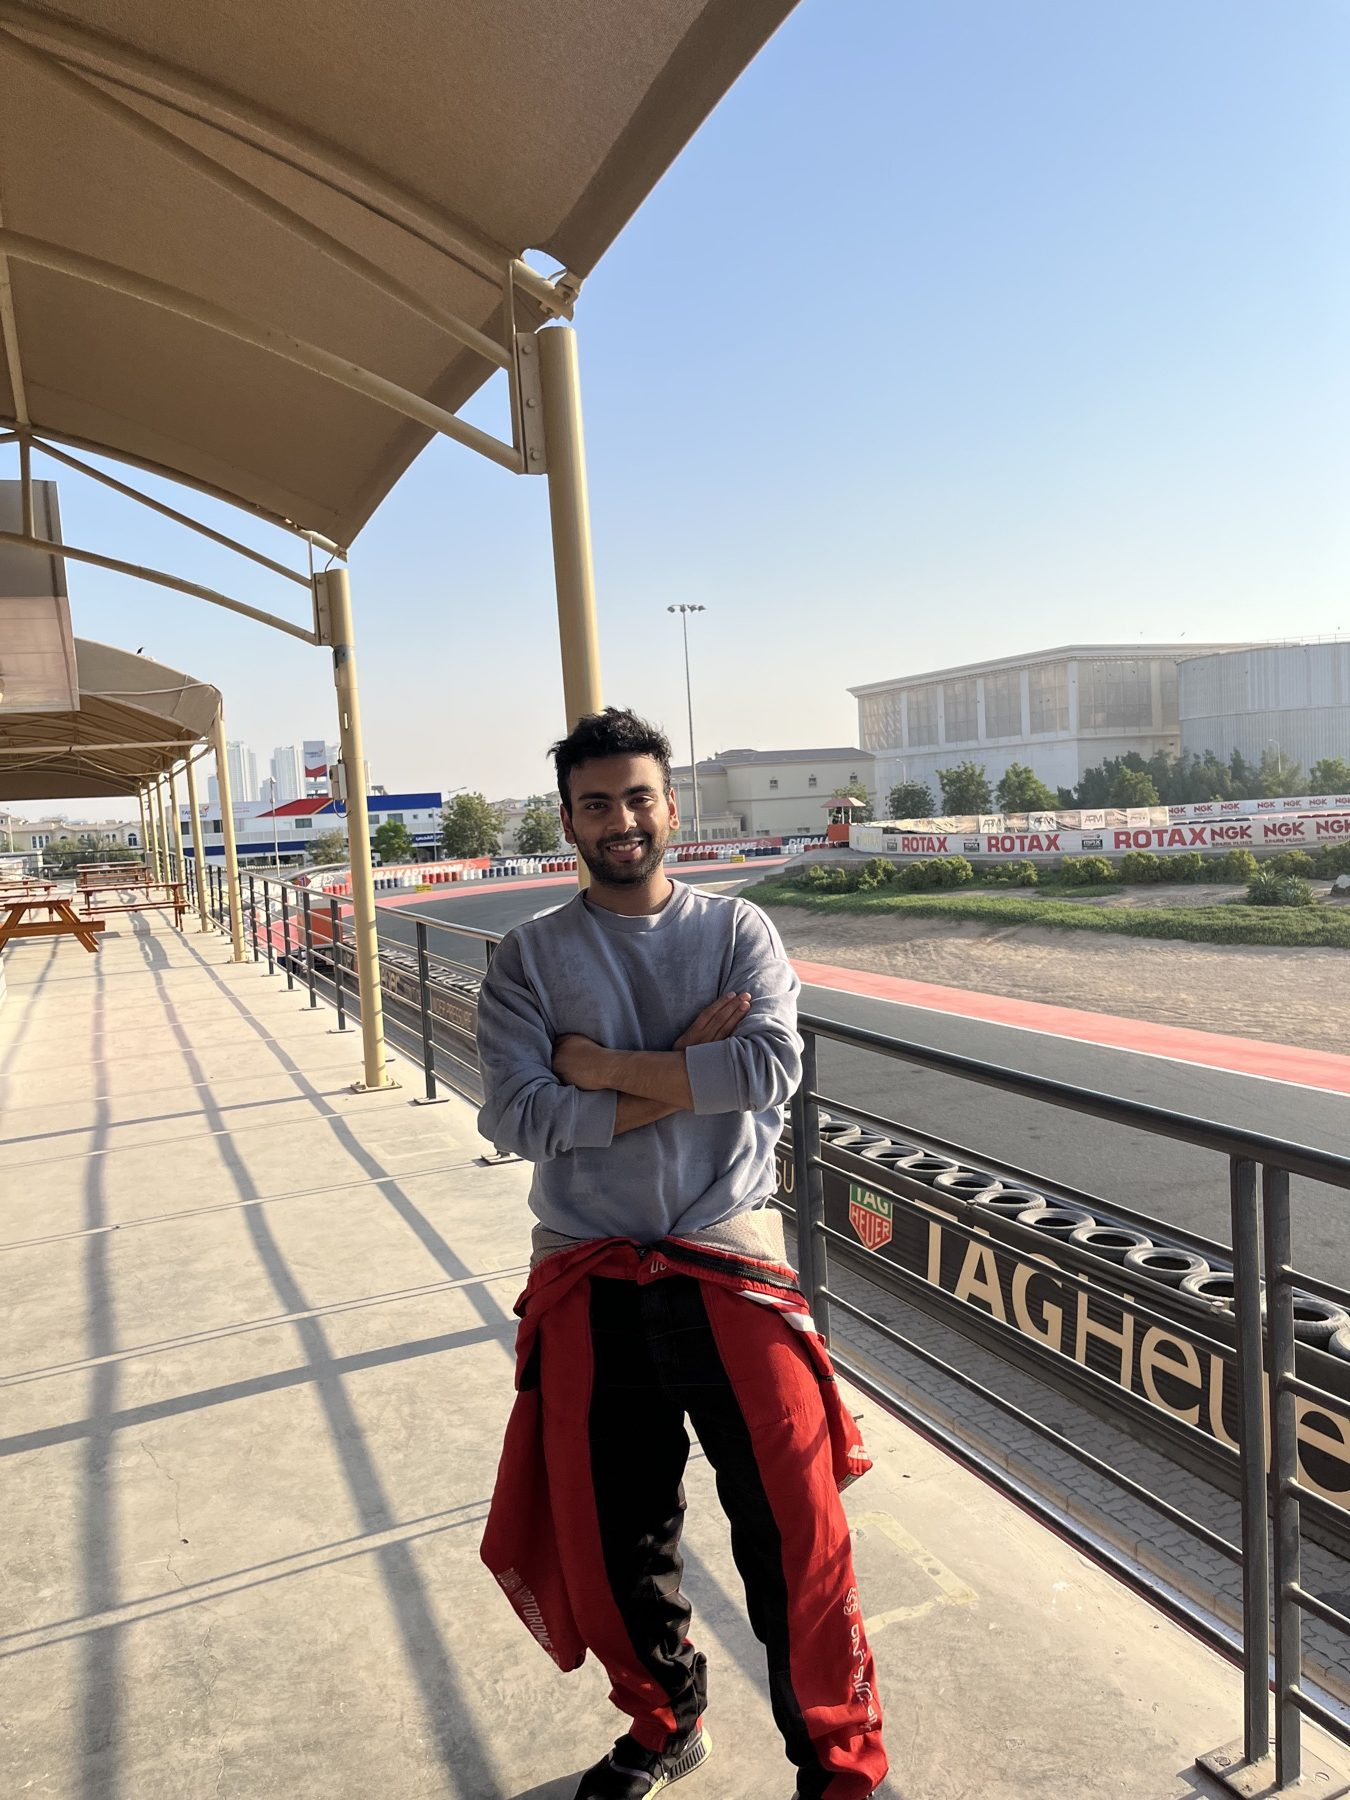
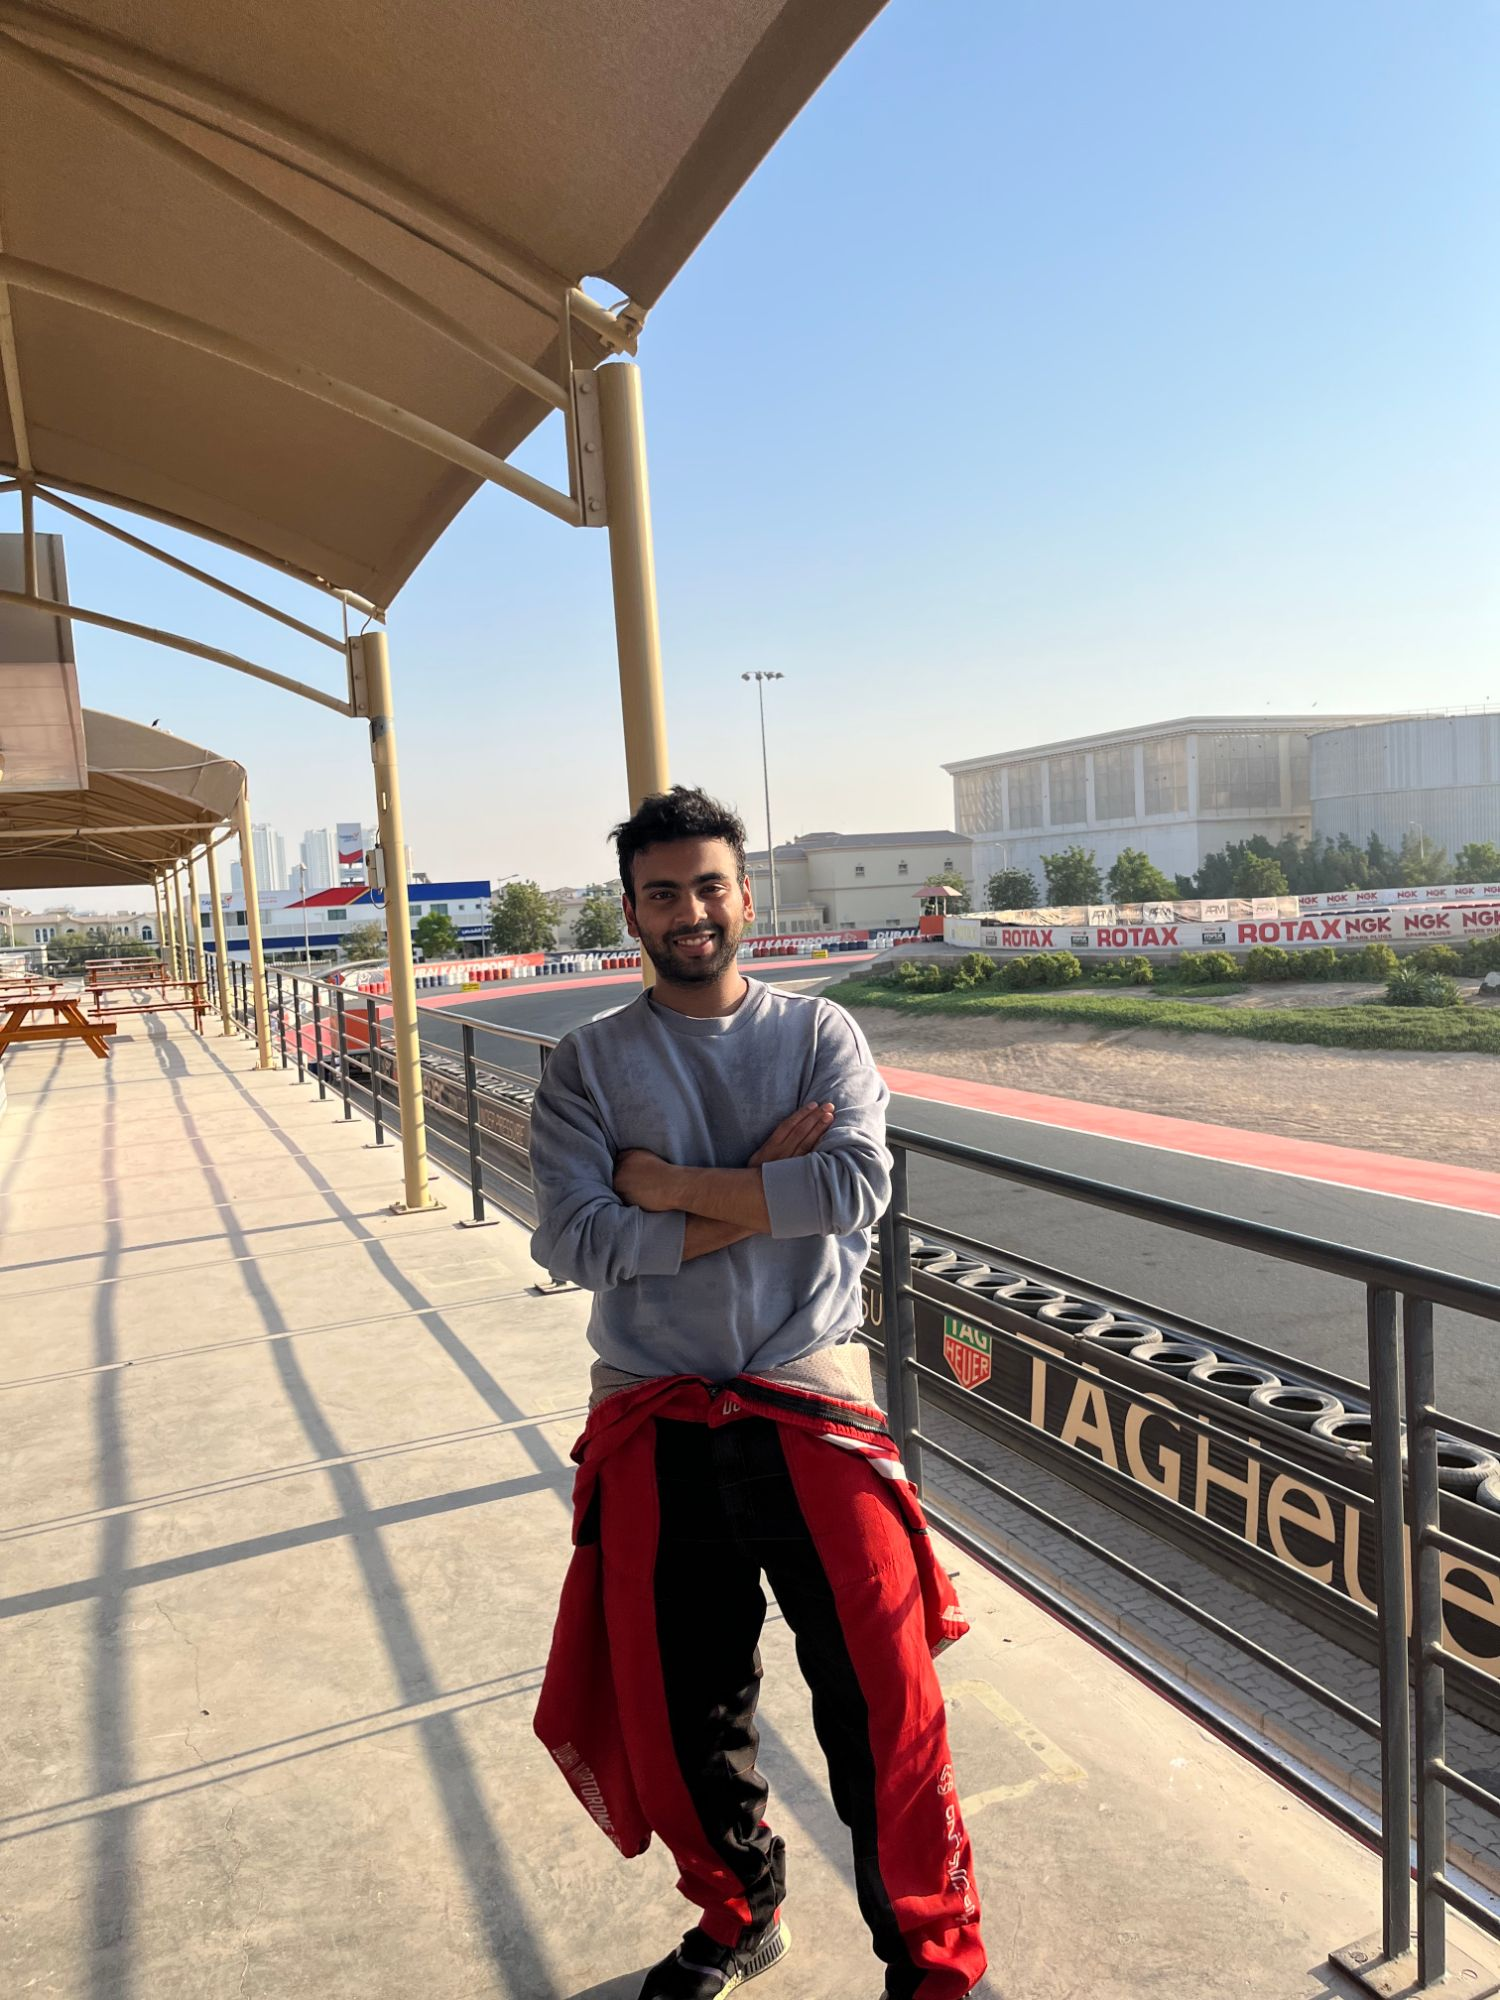
Use the new hero photo in natural colors and full frame
- Swap in the sharper 1500x2000 Dubai Autodrome photo
- Drop the sepia grade and show the full 3:4 frame instead of a 4:5 crop

diff --git a/src/resources/content.ts b/src/resources/content.ts
@@ -34,7 +34,7 @@ export const person = {
 export const hero = {
   kicker: "Product Strategy · AI · Consulting",
   bio: "A product strategist who turns ambiguous business problems into AI products people actually use. From building GenAI proofs of concept at Deloitte to writing the PRD for an agentic customer-service product with Oracle, I sit between strategy, engineering and the customer. Currently an Engineering Management candidate at Cornell, based in Ithaca and New York.",
-  photo: { src: "/images/ashwin-hero.jpg", width: 1350, height: 1800 },
+  photo: { src: "/images/ashwin-hero.jpg", width: 1500, height: 2000 },
   caption: "Dubai Autodrome, between laps.",
 };
 

diff --git a/src/styles/classical.css b/src/styles/classical.css
@@ -614,12 +614,10 @@ figure {
 .hero__photo {
   width: 100%;
   height: auto;
-  aspect-ratio: 4 / 5;
+  aspect-ratio: 3 / 4;
   object-fit: cover;
-  object-position: 50% 62%;
   border: 8px solid var(--color-surface);
   outline: 1px solid var(--color-divider);
-  filter: sepia(0.22) saturate(0.82) contrast(1.05);
 }
 
 .caption {
